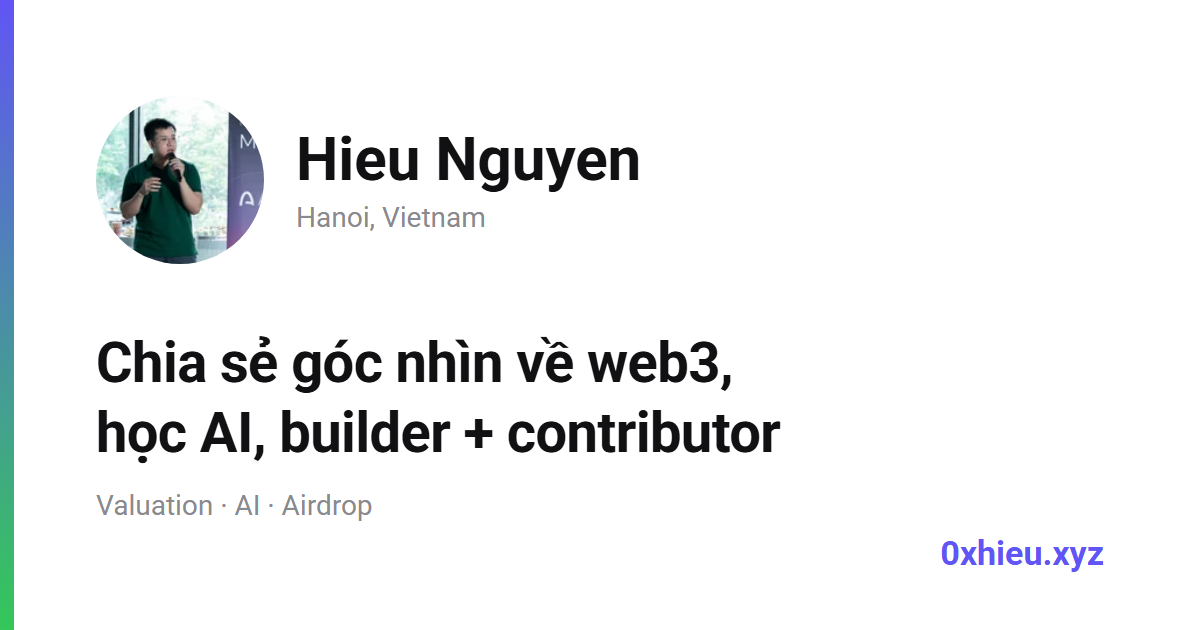
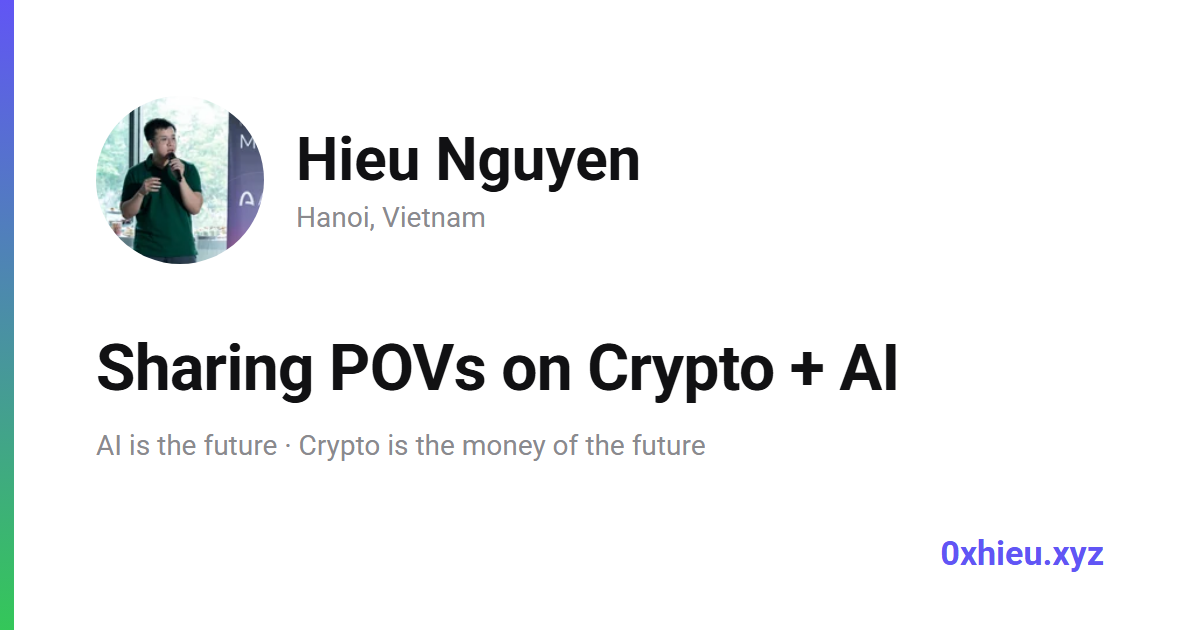
Cham ngon: "Sharing POVs on Crypto + AI" (go tieng Viet khoi CV)
Tagline tieng Viet dat hom 17/08 nam o tab CV va toan bo the meta, ma tab CV
khong co toggle ngon ngu -> do la mat tieng Anh cua site. Doi ve nguyen van
cau tieng Anh user chot, kem dinh vi "AI is the future, crypto is the money
of the future".

- index.html: .hero-tagline, meta description, og:title, og:description,
  og:image:alt doi theo cham ngon; JSON-LD giu jobTitle (schema.org can chuc
  danh that) va them field description chua cham ngon; og.png len ?v=4
- og.png: ve lai bang C:\tmp\cvshot\og-gen.html — tieu de lon = cham ngon
  (56px -> 64px vi chu ngan hon), dong phu = cau niem tin
- CLAUDE.md: them muc cham ngon + luat "tieng Viet chi o tab co toggle VI/EN
  va tai lieu noi bo, khong bao gio o tab CV / the meta"
- HANDOFF.md: muc moi nhat 18/08 + entry Decisions Log

Verify: new Function() parse sach script inline, JSON.parse sach JSON-LD,
regex dau tieng Viet tren vung #cv-view = 0 ket qua, screenshot that CV
desktop 1280 + mobile 390 (CDP setDeviceMetricsOverride) tagline 1 dong
khong tran.

Changed region(s): [[0.0617, 0.5429, 0.7708, 0.7238], [0.0617, 0.7841, 0.3083, 0.8444]]

diff --git a/index.html b/index.html
@@ -5,7 +5,7 @@
   <meta name="viewport" content="width=device-width, initial-scale=1.0" />
 
   <title>0xhieu.xyz</title>
-  <meta name="description" content="Hieu Nguyen (0xhieu.xyz) — Chia sẻ góc nhìn về web3, học AI, builder + contributor. Valuation · AI · Airdrop." />
+  <meta name="description" content="Hieu Nguyen (0xhieu.xyz) — Sharing POVs on Crypto + AI. AI is the future, crypto is the money of the future. Valuation · AI · Airdrop." />
   <meta name="author" content="Hieu Nguyen" />
   <link rel="canonical" href="https://0xhieu.xyz/" />
   <meta name="theme-color" content="#6155F5" />
@@ -17,14 +17,14 @@
   <meta property="og:type" content="profile" />
   <meta property="og:site_name" content="0xhieu.xyz" />
   <meta property="og:url" content="https://0xhieu.xyz/" />
-  <meta property="og:title" content="Hieu Nguyen — Builder + Contributor" />
-  <meta property="og:description" content="Chia sẻ góc nhìn về web3, học AI, builder + contributor. Valuation · AI · Airdrop." />
-  <!-- ?v=3 BẮT BUỘC đổi mỗi lần thay ảnh: X/Telegram/Facebook cache ảnh preview theo URL,
+  <meta property="og:title" content="Hieu Nguyen — Sharing POVs on Crypto + AI" />
+  <meta property="og:description" content="AI is the future. Crypto is the money of the future. Valuation · AI · Airdrop." />
+  <!-- ?v=N BẮT BUỘC tăng mỗi lần thay ảnh: X/Telegram/Facebook cache ảnh preview theo URL,
        giữ nguyên URL cũ thì chúng vẫn hiện ảnh cũ dù file đã thay trên server -->
-  <meta property="og:image" content="https://0xhieu.xyz/og.png?v=3" />
+  <meta property="og:image" content="https://0xhieu.xyz/og.png?v=4" />
   <meta property="og:image:width" content="1200" />
   <meta property="og:image:height" content="630" />
-  <meta property="og:image:alt" content="Hieu Nguyen — Chia sẻ góc nhìn về web3, học AI, builder + contributor. 0xhieu.xyz" />
+  <meta property="og:image:alt" content="Hieu Nguyen — Sharing POVs on Crypto + AI. 0xhieu.xyz" />
   <meta name="twitter:card" content="summary_large_image" />
   <meta name="twitter:site" content="@0xhieuxyz" />
   <meta name="twitter:creator" content="@0xhieuxyz" />
@@ -36,8 +36,9 @@
     "@type": "Person",
     "name": "Hieu Nguyen",
     "url": "https://0xhieu.xyz/",
-    "image": "https://0xhieu.xyz/og.png?v=3",
+    "image": "https://0xhieu.xyz/og.png?v=4",
     "jobTitle": "Builder + Contributor",
+    "description": "Sharing POVs on Crypto + AI. AI is the future, crypto is the money of the future.",
     "address": { "@type": "PostalAddress", "addressLocality": "Hanoi", "addressCountry": "VN" },
     "sameAs": ["https://x.com/0xhieuxyz", "https://t.me/nguyen0xhieu", "https://github.com/KattyFury"]
   }
@@ -1114,7 +1115,7 @@
             <div class="hero-location">Hanoi, Vietnam</div>
           </div>
         </div>
-        <div class="hero-tagline">Chia sẻ góc nhìn về web3, học AI, builder + contributor.</div>
+        <div class="hero-tagline">Sharing POVs on Crypto + AI</div>
         <div class="socials">
           <a class="social-btn" href="https://x.com/0xhieuxyz" target="_blank" rel="noopener">
             <svg viewBox="0 0 100 100" fill="none" stroke="currentColor" stroke-width="10" stroke-linecap="round" stroke-linejoin="round"><path d="M44.2857 55.7143L10 10H30L55.7143 44.2857M44.2857 55.7143L70 90H90L55.7143 44.2857M44.2857 55.7143L10 90M55.7143 44.2857L90 10"/></svg>

diff --git a/HANDOFF.md b/HANDOFF.md
@@ -8,7 +8,26 @@
 
 ---
 
-## ⭐ HANDOFF mới nhất (2026-08-17) — Thêm tab "AI" (hub bài viết) + đồng bộ header 3 màn
+## ⭐ HANDOFF mới nhất (2026-08-18) — Châm ngôn "Sharing POVs on Crypto + AI" (gỡ tiếng Việt khỏi CV)
+
+**Câu định vị chính thức, dùng nguyên văn ở mọi nơi: `Sharing POVs on Crypto + AI`.** Niềm tin đứng sau: *AI là tương lai, crypto là tiền tệ của tương lai* (câu này đi kèm ở meta/og/JSON-LD, không thay thế châm ngôn).
+
+**Lý do sửa:** session 17/08 đặt tagline **tiếng Việt** ("Chia sẻ góc nhìn về web3, học AI, builder + contributor") vào tab CV + toàn bộ thẻ meta — sai, vì **tab CV không có toggle ngôn ngữ, nó là mặt tiếng Anh của site**. Luật đã ghi vào `CLAUDE.md`: tiếng Việt chỉ nằm ở tab có toggle VI/EN (Valuation · AI · Airdrop) và tài liệu nội bộ.
+
+**Đã đổi (7 chỗ trong `index.html` + ảnh):**
+- `.hero-tagline` (tab CV) → `Sharing POVs on Crypto + AI` (bỏ dấu chấm cuối — là châm ngôn, không phải câu văn)
+- `meta description` · `og:title` · `og:description` · `og:image:alt` → châm ngôn + câu niềm tin
+- JSON-LD: **giữ `jobTitle` = "Builder + Contributor"** (schema.org cần chức danh thật, không nhét khẩu hiệu vào), thêm field **`description`** chứa châm ngôn
+- `og.png` vẽ lại: tiêu đề lớn = châm ngôn (1 dòng, cỡ chữ 56px → **64px** cho cân vì chữ ngắn hơn bản cũ), dòng phụ = `AI is the future · Crypto is the money of the future` (**thay** dòng `Valuation · AI · Airdrop` cũ — muốn quay lại thì sửa 1 dòng trong `og-gen.html`, bản so sánh đã render sẵn ở `C:	mp\cvshot\og-b.png`)
+- `og:image` + JSON-LD `image` lên **`?v=4`** (bắt buộc mỗi lần thay ảnh, xem comment ngay trên thẻ)
+
+**Nguồn vẽ `og.png`:** `C:	mp\cvshot\og-gen.html` (+ biến thể `og-gen-a.html` = bản đang dùng, `og-gen-b.html` = bản giữ dòng `Valuation · AI · Airdrop`). Render: `node C:	mp\cvshot\shot.js "file:///C:/tmp/cvshot/og-gen-a.html" og-a.png 1200 630 4000`. **File nguồn nằm NGOÀI repo** — muốn vẽ lại mà máy khác không có `C:	mp` thì phải chép lại từ đây.
+
+⚠ **Tab CV đã được quét sạch tiếng Việt** (regex dấu tiếng Việt trên vùng `<div id="cv-view">` → 0 kết quả). Trước khi push bất kỳ thay đổi nội dung CV nào, quét lại.
+
+---
+
+## ⭐ HANDOFF trước đó (2026-08-17) — Thêm tab "AI" (hub bài viết) + đồng bộ header 3 màn
 
 **Nav giờ là: `0xhieu.xyz · CV · Valuation · AI · Airdrop`** ("About me" đổi tên thành "CV"). Route mới `/ai` (`_redirects` vốn đã catch-all nên không phải sửa).
 
@@ -30,7 +49,7 @@
 
 ---
 
-## ⭐ HANDOFF trước đó (2026-08-16) — Gọn lại bảng Valuation cho vừa mobile
+## ⭐ HANDOFF cũ hơn (2026-08-16) — Gọn lại bảng Valuation cho vừa mobile
 
 Tiêu đề cũ ("Tracking altcoins to read market conditions" / "Theo dõi altcoin để đọc tình hình thị trường") **dài quá, mobile mất chữ** → rút còn **"Tracking the market" / "Theo dõi thị trường"**. Header cột 3 bỏ chữ Date/Ngày, còn đúng **`TGE`** cho cả 2 ngôn ngữ (entry `tge-date-th` trong `VAL_HEAD_LABELS` giờ EN=VI, giữ lại trong bảng dịch cho đúng luật "mọi nhãn tĩnh phải khai báo").
 
@@ -374,6 +393,7 @@ qua server dev, đừng sửa `index.html`.)
 
 ## Decisions Log
 
+- 2026-08-18: **Chốt châm ngôn `Sharing POVs on Crypto + AI` làm câu định vị duy nhất, gỡ tagline tiếng Việt khỏi CV** — reason: tagline tiếng Việt đặt hôm 17/08 nằm ở tab CV và toàn bộ thẻ meta/og, mà **tab CV không có toggle ngôn ngữ** nên đó là mặt tiếng Anh của site (khách quốc tế, X, Telegram preview đều đọc chỗ này); user chốt dùng nguyên văn tiếng Anh, kèm định vị "AI là tương lai, crypto là tiền tệ của tương lai". Sửa 7 chỗ trong `index.html` (hero tagline, meta description, og:title/description/image:alt, JSON-LD thêm `description`, bump `?v=4`) + vẽ lại `og.png`. **Giữ `jobTitle` = "Builder + Contributor"** thay vì nhét châm ngôn vào — `jobTitle` của schema.org là chức danh, Google đọc để hiện knowledge panel, bỏ khẩu hiệu vào là dùng sai field; châm ngôn đi vào field `description` đúng nghĩa hơn. Dòng phụ trên `og.png` đổi từ `Valuation · AI · Airdrop` sang câu niềm tin (bản giữ nguyên dòng cũ render sẵn ở `C:	mp\cvshot\og-b.png` nếu user muốn đổi lại). **Luật mới ghi vào `CLAUDE.md`:** tiếng Việt chỉ được xuất hiện ở tab có toggle VI/EN + tài liệu nội bộ, không bao giờ ở tab CV / thẻ meta. **Verify:** `new Function()` parse sạch script inline; regex dấu tiếng Việt trên vùng `#cv-view` → 0 kết quả; screenshot thật CV desktop 1280 + mobile 390 (CDP `setDeviceMetricsOverride`) thấy đúng 1 dòng tagline không tràn.
 - 2026-08-12: **BUG đã sửa — `functions/api/private.js` vẫn chặn rank `C` do whitelist server-side chưa cập nhật theo thang rank mới** — user báo không thấy dự án nào ở Rank C dù đã chọn C trong dropdown admin và lưu. Root cause: thang rank đổi sang `$ · S · A · B · C` (entry ngay dưới, cùng ngày) chỉ sửa phía client (`WTE_RANKS` trong `index.html`); server (`private.js`) vẫn giữ `RANKS = ['SS','S','A','B']` từ trước đó (09/08) → `cleanRank('C')` không khớp whitelist, âm thầm ép về mặc định `'SS'` (không báo lỗi). Verify qua `curl /api/wte` production: 24 project, rank chỉ có `S/A/B/SS`, 0 project `C`, xác nhận đúng triệu chứng. Fix: `RANKS` đổi thành `['S','A','B','C']`, mặc định khi sai/thiếu đổi từ `'SS'` (rank cũ không còn tồn tại trong thang mới) sang `'C'`. Đồng thời đổi nhãn tĩnh Airdrop từ "Work" → "Works" theo yêu cầu user. **Việc CHƯA làm:** những project đã lưu nhầm thành `SS` khi user cố chọn `C` (nếu có) vẫn đang nằm ở nhóm S do `groupOf()` map `SS`→`S` — user cần vào popup admin sửa lại rank đúng ý cho từng project đó, code không tự đoán được project nào bị ảnh hưởng.
 - 2026-08-12: **Đổi hệ quy chiếu rank của Work to Earn: `$ · S · A · B · C`, bỏ hẳn S+ (`SS`)** — user chốt thang mới theo *quy mô kèo* thay vì tier chung chung: `$` = việc ra tiền ngắn hạn (gradient thương hiệu, đứng đầu, badge `$` thay chữ rank), `S` tím = kèo 10K, `A` xanh dương = kèo 1K, `B` xanh lá = kèo xxx, `C` trắng = kèo rác. `$` **không phải rank** — suy ra từ thẻ `Work-to-Earn`, nên dropdown Rank không có option này (`WTE_RANKS` = `WTE_GROUPS` bỏ `INCOME`). Gom toàn bộ thang về 3 hằng số + `groupOf()`/`groupLabel()` ở một chỗ, và **đổ dropdown Rank bằng JS** thay vì hardcode `<option>` — trước đó thang rank nằm rải ở 4 nơi (HTML dropdown, HTML nút lọc, map inline trong `cardHtml`, CSS `.rank-*`) nên đổi thang là phải nhớ sửa đủ 4 chỗ. Cấu trúc nhóm cũng chuẩn hoá: mọi nhóm là `.wte-group[id] > .wte-group-label? + .wte-rank-group`, id chuyển từ lưới ra wrapper để nhãn nhóm không bị `scrollIntoView` cắt mất; mọi nhóm đều có nhãn ("Income", "Rank S", "Rank A"…) chứ không chỉ mỗi nhóm `$`. **Data:** KV vẫn đang lưu `rank: 'SS'` (Arc + task cá nhân cũ) — `groupOf()` map `SS`→`S` để không mất card, user tự chỉnh lại rank từng dự án qua popup admin theo thang mới. **Verify:** headless Edge `--dump-dom` trên `/airdrop` với KV thật + stub 1 card mỗi rank → thanh lọc ra đúng `$ S A B C`, 5 nhóm đúng thứ tự, badge/class khớp 1-1 (`card--INCOME`/`badge=$` … `card--C`/`badge=C`), Arc (`SS` trong KV) rơi vào nhóm S, tổng 23 card không mất ai; screenshot 1100px xác nhận badge `$` gradient và badge `C` trắng viền xám không lệch cỡ so với 4 badge kia.
 - 2026-08-12: **Card trong nhóm rank xếp theo `WTE_TYPES`, không còn theo thứ tự thêm vào KV** — user thêm project Injective (thẻ `Work-to-Earn`, rank S+) và thấy nó nằm sau Arc (`Stablechain`) dù `Work-to-Earn` đã được đặt đầu mảng `WTE_TYPES`. Root cause: `WTE_TYPES` chỉ được dùng để đổ dropdown admin, còn `renderWTE()` gom card theo rank rồi render **nguyên thứ tự mảng trả về từ `/api/wte`** (= thứ tự ghi vào KV) — đổi thứ tự trong `WTE_TYPES` không ảnh hưởng gì tới giao diện. Fix: chuyển `WTE_TYPES` từ mục ADMIN lên mục "AIRDROP — Work to Earn" (nó không còn là hằng số riêng của admin), thêm helper `typeOrder()`, `renderWTE()` sort từng nhóm rank theo helper này. Thẻ trống/lạ → cuối nhóm; cùng thẻ → giữ thứ tự KV (sort stable). Nhóm "Cá nhân" cố ý không sort. **Verify:** `new Function()` parse sạch block script; headless Edge `--dump-dom` trên `/airdrop` với KV data thật (23 project) → đủ 23 card, S+ ra `Work-to-Earn Injective` → `Stablechain Arc`, nhóm A hết lộn xộn (Stablechain → Trading → Layer-1 → Infra → AI → Layer-2 → Prediction → Payment → DeFi → Others).

diff --git a/CLAUDE.md b/CLAUDE.md
@@ -6,6 +6,16 @@
 
 ## Who I Am
 
+**Châm ngôn / positioning (chốt 2026-08-18) — dùng NGUYÊN VĂN, KHÔNG dịch, KHÔNG viết lại:**
+
+> ### Sharing POVs on Crypto + AI
+
+Niềm tin đứng sau câu này: **AI là tương lai, crypto là tiền tệ của tương lai.**
+
+Mọi chỗ mô tả tôi ra bên ngoài phải dùng đúng câu trên: `.hero-tagline` của tab CV, `meta description`, `og:title` / `og:description` / `og:image:alt`, JSON-LD `description`, ảnh share `og.png`, và bất kỳ repo / profile nào khác của tôi.
+
+> ⚠ **Tab CV là tiếng Anh, không có ngoại lệ.** Tiếng Việt chỉ được xuất hiện ở các tab có toggle VI/EN (Valuation · AI · Airdrop) và trong tài liệu nội bộ (`CLAUDE.md`, `HANDOFF.md`, comment code). Viết tagline / mô tả tiếng Việt vào phần CV hay thẻ meta = **sai**, đã xảy ra 2026-08-17 và phải sửa lại.
+
 I'm a **Vietnamese vibecoder** — I have ideas, not a programming background. I build products by handing off to AI, not by writing every line myself.
 
 **How I learn and work:**
